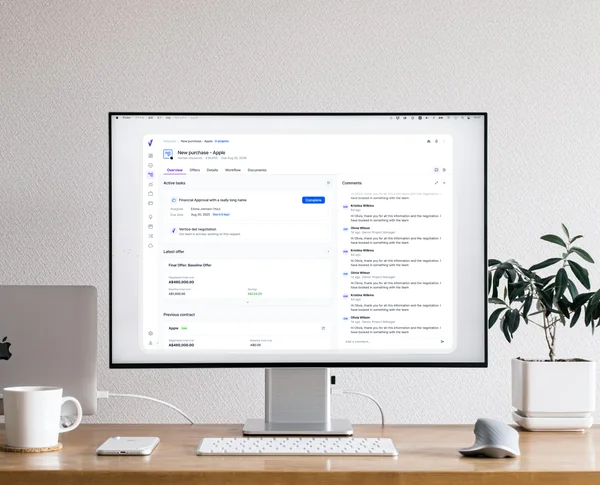
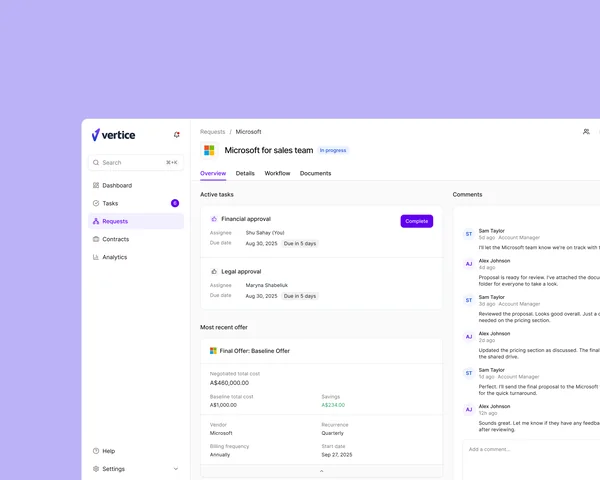
Add the CalSocial and Atlassian shots, and reshoot Vertice
All three exported at 2500x2000 on their own colour, so the Work rows read
as a set. Each gets a 600px derivative for the 200px slot and the full file
for the lightbox, which never upscales.

Vertice is a tighter crop than the first version, so the interface is
legible at thumbnail size.

diff --git a/index.html b/index.html
@@ -60,7 +60,7 @@
           <p><span class="u">Vertice<svg aria-hidden="true"><line x1="0" x2="100%" y1="4" y2="4"/></svg></span></p>
           <p>Reimagining the procurement experience</p>
           <img class="shot" src="images/work/vertice.webp" data-full="images/work/vertice-full.webp"
-               width="200" height="120" alt="A Vertice purchase request open on a desktop monitor">
+               width="200" height="120" alt="The Vertice request page, showing approvals and the latest offer">
         </div>
       </div>
 
@@ -69,7 +69,8 @@
         <div class="entry">
           <p><span class="u">CalSocial<svg aria-hidden="true"><line x1="0" x2="100%" y1="4" y2="4"/></svg></span></p>
           <p>Designing you & your friend&rsquo;s social calendar</p>
-          <div class="shot"></div>
+          <img class="shot" src="images/work/calsocial.webp" data-full="images/work/calsocial-full.webp"
+               width="200" height="120" alt="The CalSocial mobile app, showing a friend's calendar and an event page">
         </div>
       </div>
 
@@ -78,7 +79,8 @@
         <div class="entry">
           <p><span class="u">Atlassian<svg aria-hidden="true"><line x1="0" x2="100%" y1="4" y2="4"/></svg></span></p>
           <p>Improving your team&rsquo;s software health</p>
-          <div class="shot"></div>
+          <img class="shot" src="images/work/atlassian.webp" data-full="images/work/atlassian-full.webp"
+               width="200" height="120" alt="Atlassian Compass, showing a Service Health scorecard and a linked goal">
         </div>
       </div>
 
@@ -208,7 +210,7 @@
       <div class="card-row">
         <img class="card-photo" src="images/people/laith.webp" width="80" height="80" alt="Laith Wallace">
         <blockquote class="card-body">
-          <p>&ldquo;Her willingness to get stuck in and take ownership of projects is highly commendable. She quickly adapted to our ways of working and has become a reliable collaborator with product management and engineering.&rdquo;</p>
+          <p>&ldquo;Her willingness to get stuck in and take ownership of projects is highly commendable. She has quickly become a reliable collaborator with product and engineering.&rdquo;</p>
           <p class="muted">Laith Wallace, Head of Design @ Vertice 🎨</p>
         </blockquote>
       </div>
@@ -216,7 +218,7 @@
       <div class="card-row">
         <img class="card-photo" src="images/people/yubing.webp" width="80" height="80" alt="Yubing Zhang">
         <blockquote class="card-body">
-          <p>&ldquo;Abby is a highly skilled and collaborative product designer. She consistently demonstrates a strong understanding of user needs and effectively partners with cross-functional teams to deliver thoughtful and well-executed designs.&rdquo;</p>
+          <p>&ldquo;Abby consistently demonstrates a strong understanding of user needs and effectively partners with cross-functional teams to deliver thoughtful and well-executed designs.&rdquo;</p>
           <p class="muted">Yubing Zhang, Staff Product Designer @ TikTok 🌉</p>
         </blockquote>
       </div>
@@ -224,7 +226,7 @@
       <div class="card-row">
         <img class="card-photo" src="images/people/shu.webp" width="80" height="80" alt="Shu Sahay">
         <blockquote class="card-body">
-          <p>&ldquo;She&rsquo;s proficient in Figma and research prototyping, effectively translated user insights into actionable designs for both their own work and the wider team. An amazing team player and overall exceptional UX/UI product designer.&rdquo;</p>
+          <p>&ldquo;She&rsquo;s proficient in Figma and research prototyping, effectively translated user insights into actionable designs for both their own work and the wider team.&rdquo;</p>
           <p class="muted">Shubhank Sahay, Senior Product Designer @ Datadog 🗽</p>
         </blockquote>
       </div>
